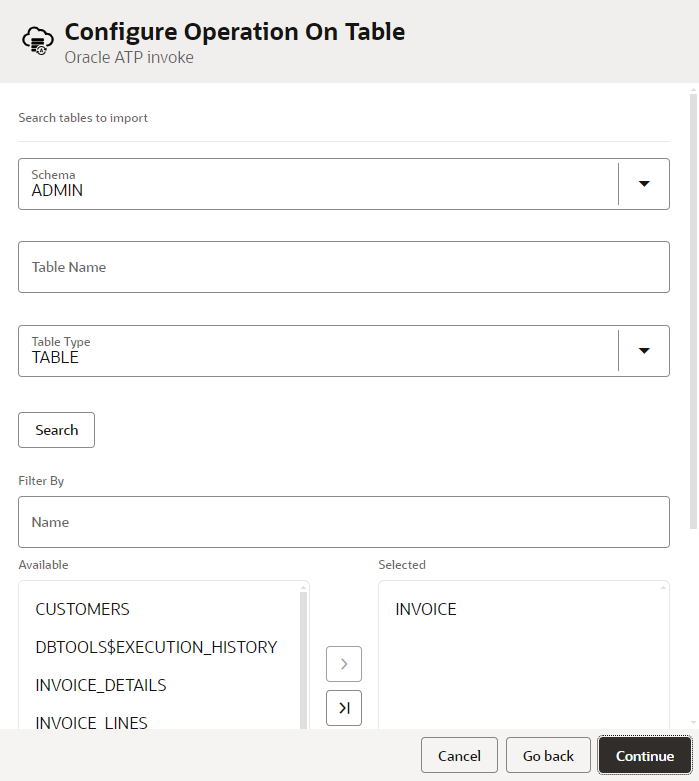
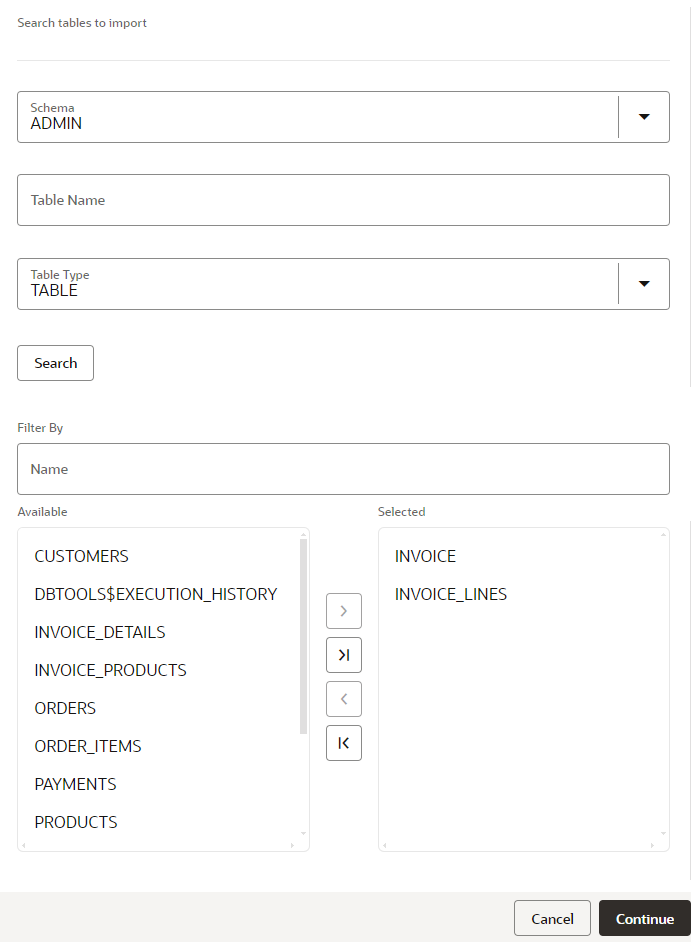
updated db invoke changes

diff --git a/opa-for-fusionApps/invoice-handling-process/create-integration-flow/create-integration-flow.md b/opa-for-fusionApps/invoice-handling-process/create-integration-flow/create-integration-flow.md
@@ -285,7 +285,7 @@ Hover cursor next to **Subscribe to event** activity and Click on *+* sign. From
 - In the **Basic Info** page, configure the operation per below and click *Continue*
 | **Field Name** | **Value** |
 |----------------|-----------|
-| What do you want to call your endpoint? | CreateInvoice |
+| What do you want to call your endpoint? | CreateInvoiceAndLines |
 | What operation do you want to perform | Select **Perform an Operation on a Table** |
 | What operation do you want to perform on Table? | Insert |
 {: title="ATP Adapter Wizard Basic Info Properties"}
@@ -296,66 +296,36 @@ Hover cursor next to **Subscribe to event** activity and Click on *+* sign. From
 |----------------|-----------|
 | Schema | ADMIN |
 | Table Type | Select **TABLE** and click on *Search* |
-| Selected Pane | From the Available Pane Select **INVOICE** TABLE and shuttle to the **Selected** pane |
-{: title="Configure Opertaion on Table Page Properties"}
+| Selected Pane | From the Available Pane Select **INVOICE** and **INVOICE_LINES** TABLE and shuttle to the **Selected** pane |
+{: title="Configure Operation on Table Page Properties"}
 
 ![Select DB Table](images/select-db-table.png)
 
 Click on *Continue*. Finally, *Finish* the wizard. An Invoke action and Map activity is added in the Integration flow.
 
-***Edit Map Activity - CreateInvoice***
+***Edit Map Activity - CreateInvoiceAndLines***
 
-1.  Edit the Map Activity **CreateInvoice**
+1.  Edit the Map Activity **CreateInvoiceAndLines**
 
-2.  Perform the mapping as per below. On the Source side Expand **InvoiceEvent Request &gt; Request Wrapper &gt; Invoice &gt; Fields**. On the Target side Expand **Create Invoice Request &gt; Invoice**.
+2.  Perform the mapping as per below. On the Source side Expand **InvoiceEvent Request &gt; Request Wrapper &gt; Invoice &gt; Fields**. On the Target side Expand **CreateInvoiceAndLinea Request &gt; Invoice**.
 
-Perform one to one Map of the following fields: Billing Address, Billing Address Recipient, Invoice Date, Invoice Id, Invoice Total, Payment Term, Shipping Cost,Sub Total, Total Tax, Vendor Name. Use the screenshot for reference.
+Perform one to one Map of the following fields per the table below
+| **Source** | **Target** |
+|----------------|-----------|
+| Billing Address | billingaddress |
+| Billing Address Recipient | billingaddressrecipient |
+| Invoice Date | invoicedate |
+| Invoice Id | invoiceid |
+| Invoice Total | invoicetotal |
+| Vendor Name | vendorname |
+| Items | InvoiceLinesCollection > InvoiceLines |
+| Items > Quantity | InvoiceLinesCollection > InvoiceLines > quantity |
+| Items > Unit Price | InvoiceLinesCollection > InvoiceLines > unitprice |
+| Items > Amount | InvoiceLinesCollection > InvoiceLines > amount |
+| Items > Description | InvoiceLinesCollection > InvoiceLines > name |
+{: title="Configure Invoice and Lines Mapping"}
 
 ![Map Save Invoice Details](images/map-save-invoice-details.png)
-
-Click on *Validate* and Navigate back to the Integration Flow canvas
-
-***Add DB Action to Save Invoice Lines***
-
-Invoke Insert operation to Save Invoice Lines
-
-Hover cursor next to **CreateInvoice** DB Invoke activity and Click on *+* sign. From the list of **Invoke** connections choose *AI Demo ATP DB Connection*
-- In the **Basic Info** page, configure the operation per below and click *Continue*
-| **Field Name** | **Value** |
-|----------------|-----------|
-| What do you want to call your endpoint? | CreateInvoiceLines |
-| What operation do you want to perform | Select **Perform an Operation on a Table** |
-| What operation do you want to perform on Table? | Insert |
-{: title="ATP Adapter Wizard Basic Info Properties"}
-
-- In the **Configure Operation On Table** page, select the database tables as per below
-
-| **Field Name** | **Value** |
-|----------------|-----------|
-| Schema | ADMIN |
-| Table Type | Select **TABLE** and click on *Search* |
-| Selected Pane | From the Available Pane Select **INVOICE\_LINES** TABLE and shuttle to the **Selected** pane |
-{: title="Configure Operation on Table Page Properties"}
-
-![Select DB Table](images/select-invoice-products-db-table.png)
-
-Scroll down to **Advanced Options** and Select *Edit*. In the **Advanced Options** dialog select sequence *INVOICE_LINES_SEQ*
-
-![Select DB Table](images/select-invoice-products-db-table-seq.png)
-
-Click on *Continue* and finally, *Finish* the wizard.
-
-***Edit Map Activity - CreateInvoiceLines***
-
-1.  Edit the Map Activity **CreateInvoiceLines**
-
-2.  Perform the mapping as per below. On the Source side Expand **INVOICEEVENT Request &gt; Request Wrapper &gt; Invoice &gt; Fields**. On the Target side Expand **CreateInvoiceLines Request &gt; Invoice Lines**.
-
-3.  Map the **Items** array element on the source side to the **InvoiceLines** array on the target side. This will create a for-each automatically. Since we will have multiple invoice lines to be inserted.
-
-4.  Perform one to one Map of the following fields: Invoice Id, Amount, Name, Quantity, Unit Price. Use the screenshot for reference.
-
-![Map Save Invoice Details](images/map-save-invoice-products.png)
 
 Click on *Validate* and Navigate back to the Integration Flow canvas. Save the Integration Flow.
 
